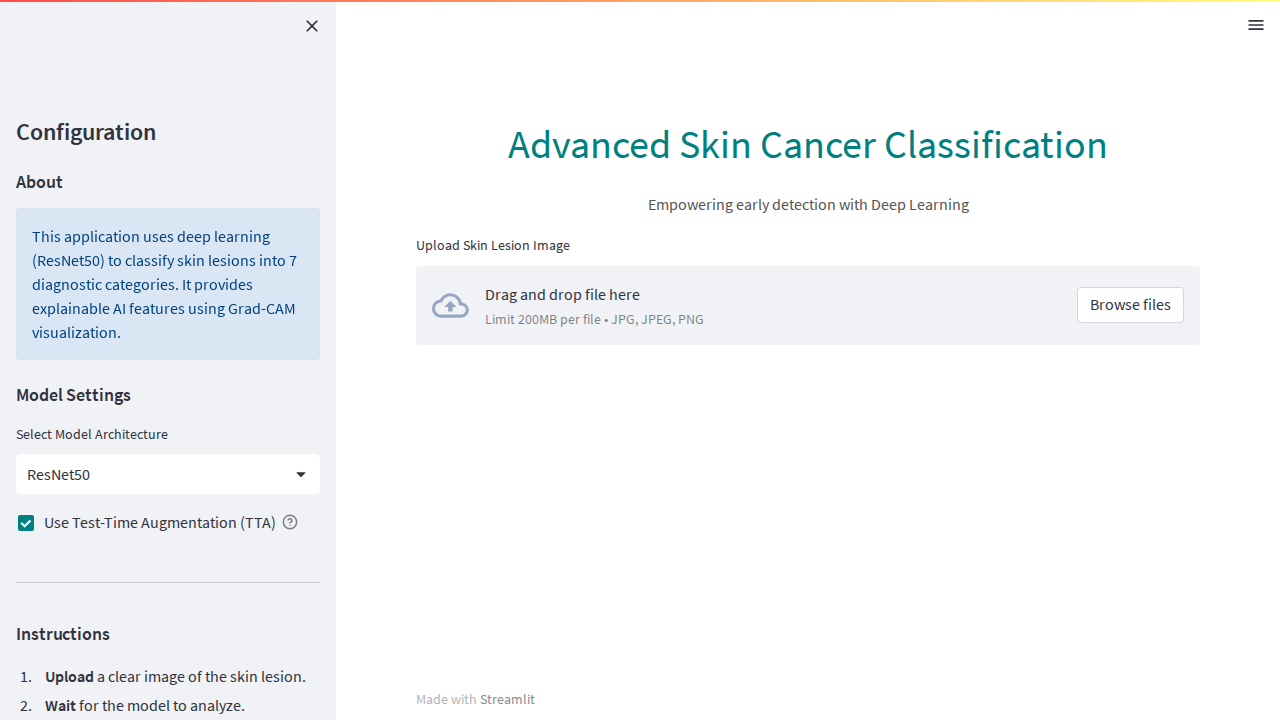
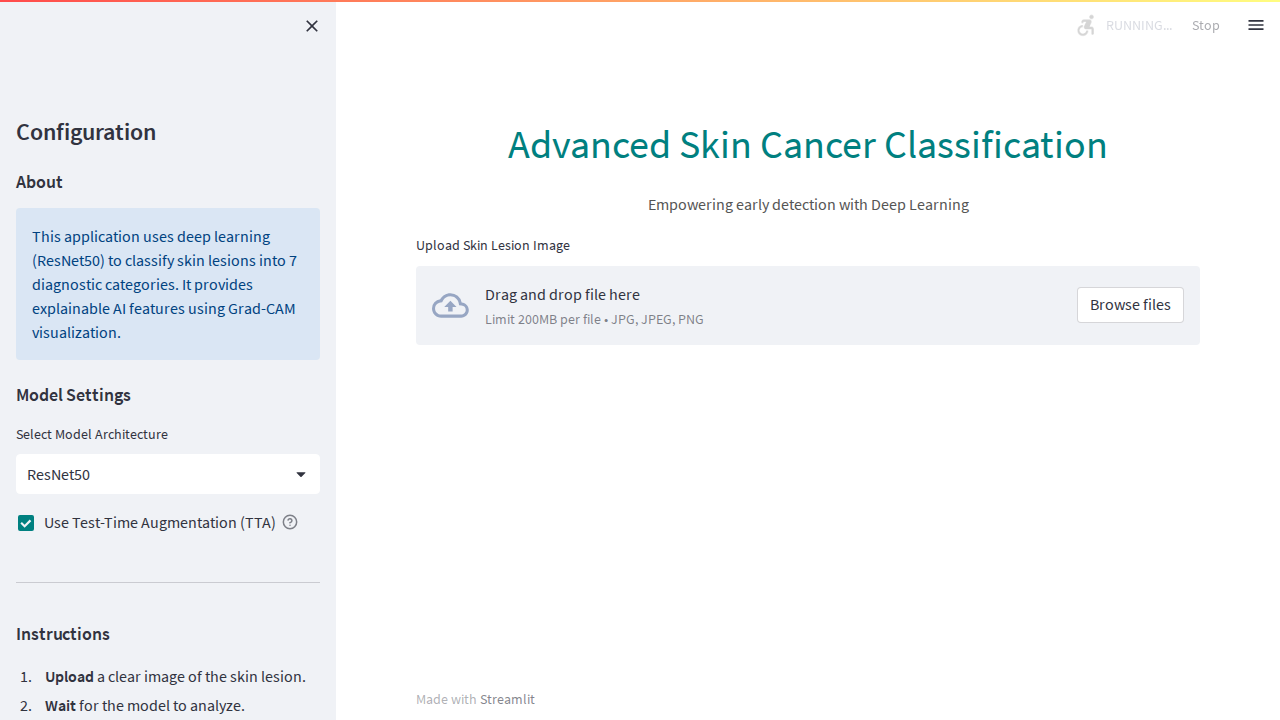
Deploy Skin Cancer Classifier to Streamlit with Enhanced UI/UX and Documentation
- Extracted logic from notebook into `app.py` and `train.py`.
- Refactored `app.py` for a polished UI with custom styling, sidebar controls, and Grad-CAM visualization.
- Added PDF report generation and Test-Time Augmentation (TTA).
- Updated `requirements.txt`.
- Added `create_dummy_model.py` for local testing without the full dataset.
- Updated `README.md` with comprehensive deployment instructions.
- Verified app execution with Playwright screenshot.

Changed region(s): [[0.0312, 0.3056, 0.2188, 0.4889], [0.8438, 0.0306, 0.9062, 0.0611]]

diff --git a/README.md b/README.md
@@ -11,6 +11,7 @@ Designed for AI/ML and bioinformatics professionals, researchers, and enthusiast
 - [Features](#features)
 - [Installation](#installation)
 - [Usage](#usage)
+- [Deployment](#deployment)
 - [App Demo](#app-demo)
 - [Contributing](#contributing)
 - [License](#license)
@@ -31,22 +32,65 @@ This project is tailored for the AI/ML bioinformatics community, aiming to accel
 - 🔍 **Model Explainability** via GRAD-CAM visualizations
 - 📊 **Comprehensive Data Visualization** for dataset insights and results analysis
 - 🚀 **Deployed Web App** for easy and interactive usage
+- 📄 **PDF Reporting** generate and download diagnostic reports
+- 🔄 **Test-Time Augmentation** for robust predictions
 
--
+---
 
+## 📦 Installation
 
-``` #Usage
+1. Clone the repository:
+   ```bash
+   git clone https://github.com/yourusername/skin-cancer-classification.git
+   cd skin-cancer-classification
+   ```
 
-1. Prepare your dataset in the specified format (see `data/` directory or documentation).
-2. Train or evaluate the model:
-    ```bash
-    python train.py
-    ```
-3. Launch the deployed web app for interactive predictions:
-    ```bash
-    streamlit run app.py
-    ```
-4. Explore model interpretability with GRAD-CAM and visualize results.
+2. Install dependencies:
+   ```bash
+   pip install -r requirements.txt
+   ```
+
+---
+
+## 🚀 Usage
+
+### 1. Setup Model
+You need a trained model file (`skin_cancer_model.h5`) to run the app.
+
+**Option A: Create a Dummy Model (For Testing)**
+If you don't have the dataset but want to test the app UI and functionality:
+```bash
+python create_dummy_model.py
+```
+This will generate a lightweight `skin_cancer_model.h5` compatible with the app.
+
+**Option B: Train on HAM10000 Dataset**
+1. Download the [HAM10000 dataset](https://www.kaggle.com/datasets/kmader/skin-cancer-mnist-ham10000) and extract it to a `ham10000` folder.
+2. Run the training script:
+   ```bash
+   python train.py
+   ```
+
+### 2. Run the App
+Launch the Streamlit web app:
+```bash
+streamlit run app.py
+```
+The app will open in your default browser at `http://localhost:8501`.
+
+---
+
+## ☁ Deployment
+
+To deploy this app to **Streamlit Community Cloud**:
+
+1. Push this repository to GitHub.
+2. Log in to [Streamlit Community Cloud](https://streamlit.io/cloud).
+3. Click "New App".
+4. Select your repository, branch, and main file path (`app.py`).
+5. Click "Deploy".
+
+*Note: Ensure `requirements.txt` is present in the repository so Streamlit Cloud can install the necessary packages.*
 
 ---
 
@@ -77,9 +121,3 @@ This project is licensed under the [MIT License](LICENSE).
 - Inspired by ongoing research in medical imaging and AI for healthcare.
 - Built with Python, TensorFlow/Keras, and Streamlit.
 - Special thanks to the open-source datasets and contributors to the tools used in this project.
-Python - version 3.11.4
-Matplotlib - version 3.7.1
-Numpy - version 1.24.3
-Pandas - version 1.5.3
-Seaborn - version 0.12.2
-Tensorflow - version 2.15.0
